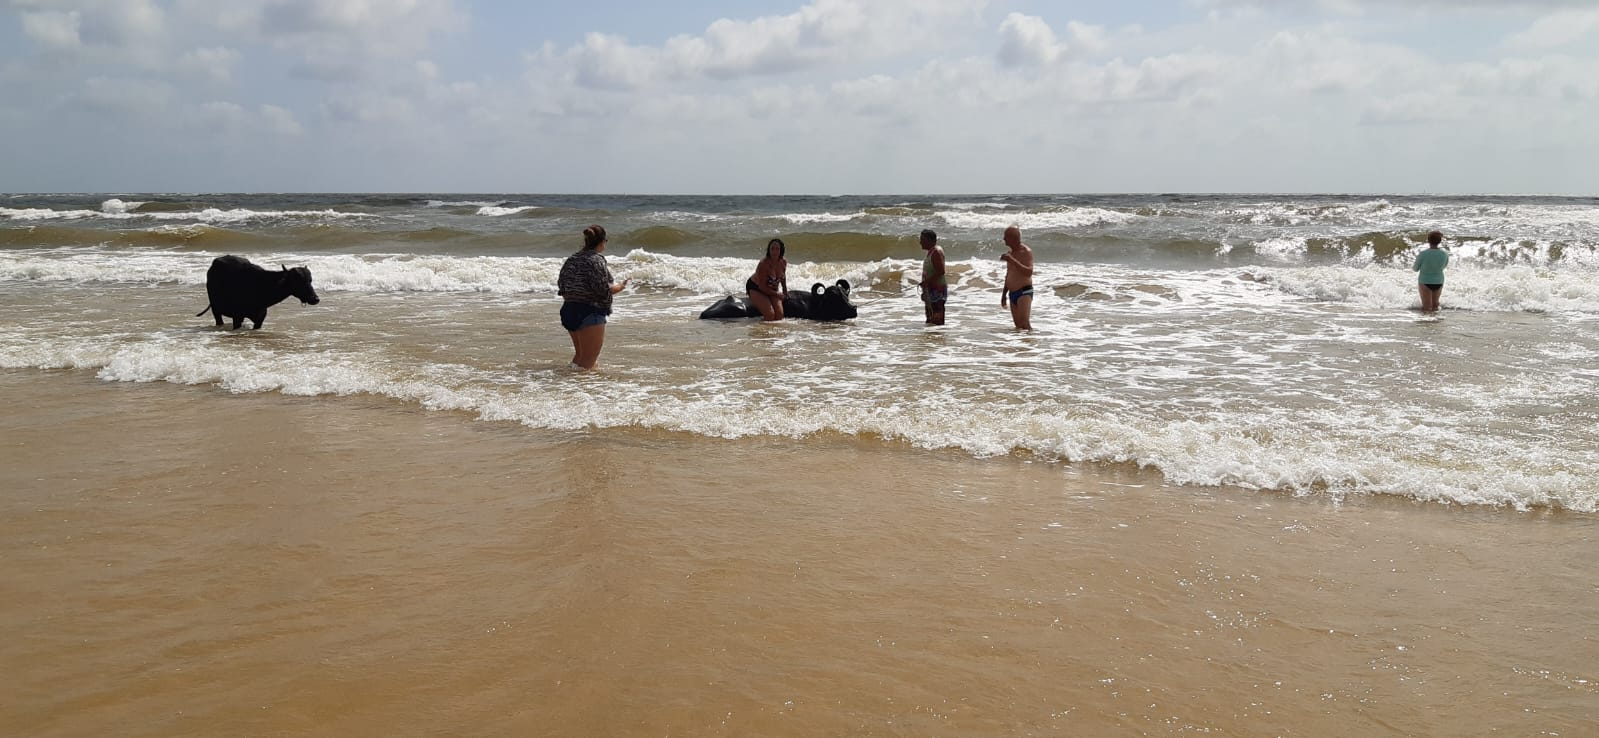
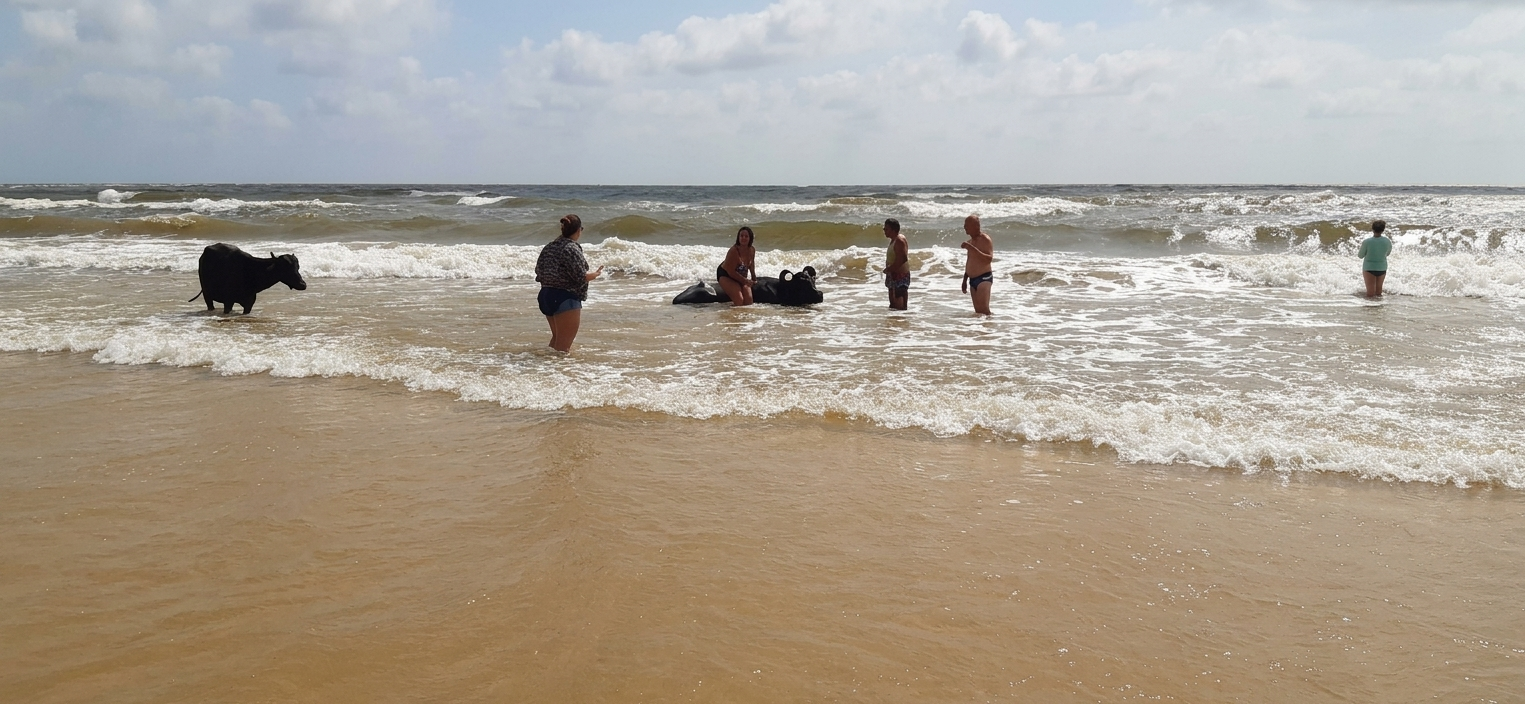
Substitui imagens pixeladas por imagens atualizadas

diff --git a/index.html b/index.html
@@ -159,7 +159,7 @@
 
         <!-- Card 7 -->
         <div class="card">
-          <img src="img/ver-o-peso.jpeg" alt="Marajó 3 Dias">
+          <img src="img/Icoaraci.jpeg" alt="Marajó 3 Dias">
           <div class="info-card">
             <h3>City Tour Icoraci</h3>
             <p>    Venha conhecer Icoaraci, o maior centro de cerâmica marajoara e tapajônica do Pará. City tour com visitas ao Bairro do Livramento, Igarapé do Paracuri, olarias e feirinha de artesanato na orla.</p>
@@ -179,7 +179,7 @@
 
         <!-- Card 9 -->
         <div class="card">
-          <img src="img/ver-o-peso.jpeg" alt="Marajó 5 Dias">
+          <img src="img/combu1.jpeg" alt="Marajó 5 Dias">
           <div class="info-card">
             <h3>River Tour</h3>
             <p>Venha viver uma imersão amazônica com passeio de barco pelos rios Guamá e Acará, caminhada pela floresta, observação da fauna e flora e visita a comunidades ribeirinhas.</p>
@@ -189,7 +189,7 @@
 
         <!-- Card 10 -->
         <div class="card">
-          <img src="img/ver-o-peso.jpeg" alt="Ilha do Cumbú">
+          <img src="img/combu.jpeg" alt="Ilha do Cumbú">
           <div class="info-card">
             <h3>Ilha do Cumbú</h3>
             <p>Passeio de voadeira pelos rios Guamá, furos e ilhas, com parada na fábrica artesanal de chocolate da Ilha do Cumbú.</p>

diff --git a/10-ilha-do-cumbu.html b/10-ilha-do-cumbu.html
@@ -143,7 +143,7 @@
             <span class="galeria-placeholder" id="galeriaPlaceholder">Clique em uma imagem</span>
           </figure>
           <div class="galeria-thumbs">
-            <button type="button" class="galeria-thumb active" data-src="img/voadeira.jpg" data-label="Passeio de Voadeira">Passeio de Voadeira</button>
+            <button type="button" class="galeria-thumb active" data-src="img/passeios/10_combu/01-COMBU.mp4" data-label="Passeio de Voadeira">Passeio de Voadeira</button>
             <button type="button" class="galeria-thumb" data-src="img/rio-guama-panoramico.jpg" data-label="Rio Guamá">Rio Guamá</button>
             <button type="button" class="galeria-thumb" data-src="img/ilha-cumbu.jpg" data-label="Ilha do Cumbú">Ilha do Cumbú</button>
             <button type="button" class="galeria-thumb" data-src="img/fabrica-chocolate.jpg" data-label="Fábrica de Chocolate">Fábrica de Chocolate</button>

diff --git a/07-city-tour-icoraci.html b/07-city-tour-icoraci.html
@@ -132,6 +132,21 @@
     </section>
 
     <!-- GALERIA -->
+<section id="galeria" class="passeio-section">
+  <div class="passeio-section-container">
+    <h3 class="passeio-label">Galeria</h3>
+    <h2>Galeria de imagens</h2>
+    
+    <!-- Mensagem temporária -->
+    <div class="galeria-em-breve">
+      <div class="em-breve-content">
+        <h3>Em breve</h3>
+        <p>Nossa galeria de imagens está sendo preparada. Em breve você poderá conferir todas as fotos!</p>
+      </div>
+    </div>
+  </div>
+</section>
+    <!-- GALERIA 
     <section id="galeria" class="passeio-section">
       <div class="passeio-section-container">
         <h3 class="passeio-label">Galeria</h3>
@@ -153,6 +168,7 @@
         </div>
       </div>
     </section>
+  -->
 
     <!-- SOBRE O PASSEIO -->
     <section id="sobre" class="passeio-section">

diff --git a/09-river-tour.html b/09-river-tour.html
@@ -136,6 +136,17 @@
       <div class="passeio-section-container">
         <h3 class="passeio-label">Galeria</h3>
         <h2>Galeria de imagens</h2>
+
+        <!-- Mensagem temporária -->
+    <div class="galeria-em-breve">
+      <div class="em-breve-content">
+        <h3>Em breve</h3>
+        <p>Nossa galeria de imagens está sendo preparada. Em breve você poderá conferir todas as fotos!</p>
+      </div>
+    </div>
+  </div>
+  </section>
+<!--
         <div class="galeria">
           <figure class="galeria-main" id="galeriaMain">
             <div class="galeria-main-bg" id="galeriaMainBg" aria-hidden="true"></div>
@@ -153,6 +164,7 @@
         </div>
       </div>
     </section>
+-->
 
     <!-- SOBRE O PASSEIO -->
     <section id="sobre" class="passeio-section">
